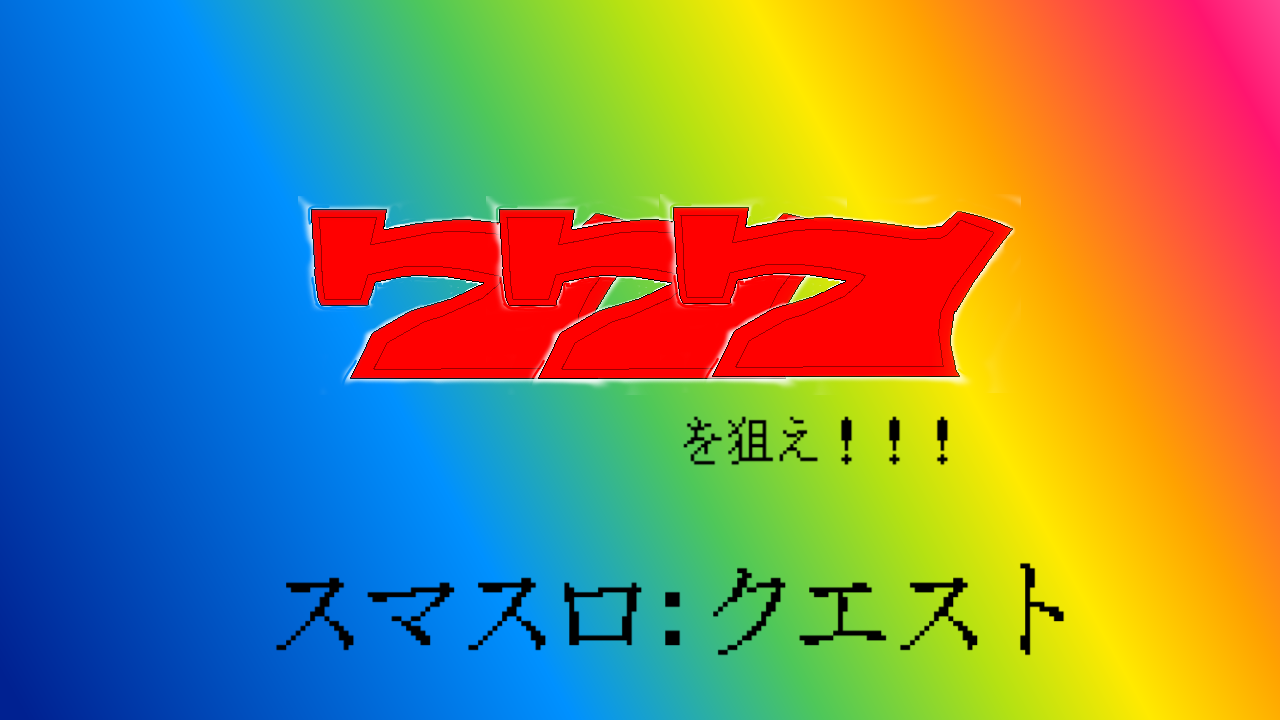
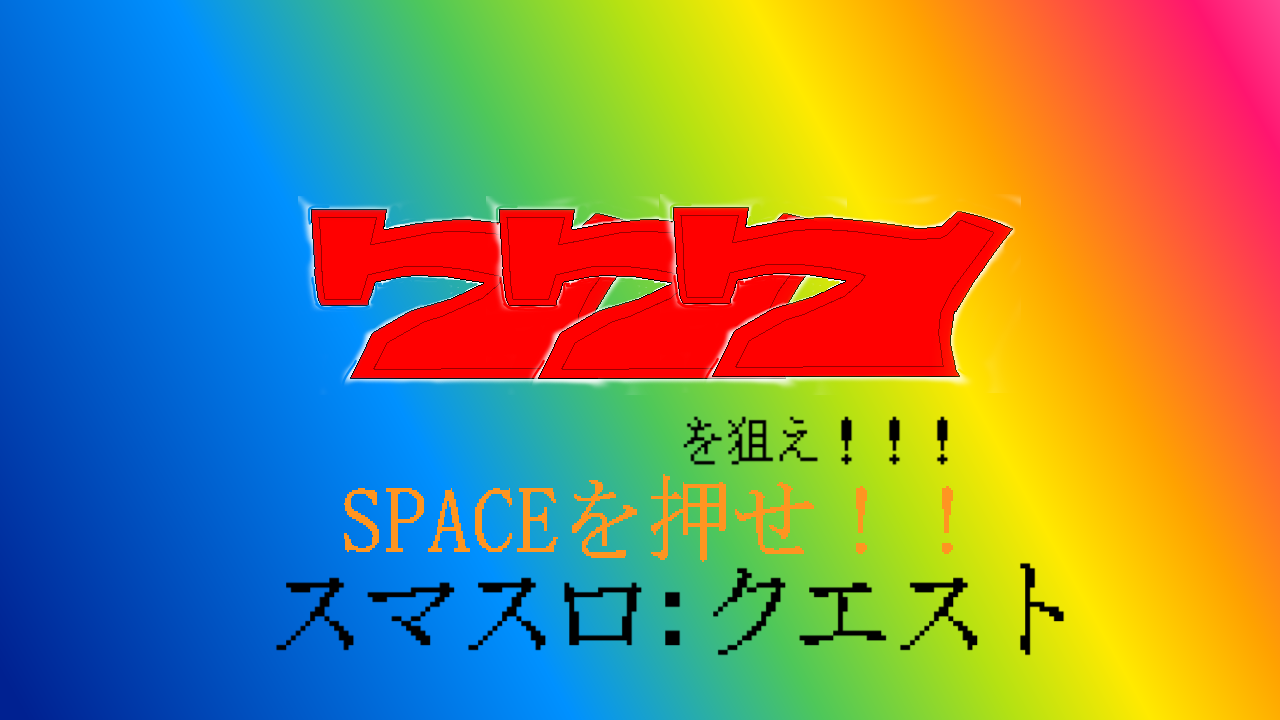
ok

Changed region(s): [[0.25, 0.6722, 0.625, 0.7944], [0.7188, 0.6722, 0.75, 0.7639], [0.6562, 0.6722, 0.6875, 0.7639]]

diff --git a/DirectXGame/scene/GameScene.cpp b/DirectXGame/scene/GameScene.cpp
@@ -79,7 +79,7 @@ void GameScene::Initialize() {
 	// レバーの生成
 	lever_ = new Lever();
 	// レバーの初期化
-	lever_->Initialize(modelLever_, &viewProjection_);
+	lever_->Initialize(modelLever_, &viewProjection_,this);
 
 	// モデル生成
 	modelReel_ = Model::CreateFromOBJ("Reel", true);
@@ -409,17 +409,15 @@ void GameScene::Update() {
 					}
 
 					// 敵を倒す抽選 (スイカ)
-					if (isEnemyActive==true && rand() % 100 < 50 && mode == 1) {  // 50%の確率で敵を倒せる
+					if (isEnemyActive==true && rand() % 100 < 50 && mode_ == 1) {  // 50%の確率で敵を倒せる
 						isEnemyActive = false;
 						enemies[selected_enemy_index]->SetIsActive(false);
-						
+						mode_ = 0;
+						Medal += 50;
 					}	
-					if (mode ==0)
-					{
-						mode = 1;
-					}
-					else if(mode ==1){
-						mode = 0;
+					
+					else if(mode_ ==0){
+						mode_ = 1;
 					}
 
 
@@ -464,17 +462,15 @@ void GameScene::Update() {
 					}
 
 					// 敵を倒す抽選 (弱チェリー)
-					if (isEnemyActive && rand() % 100 < 30 && mode == 1) {  // 30%の確率で敵を倒せる
+					if (isEnemyActive && rand() % 100 < 30 && mode_ == 1) {  // 30%の確率で敵を倒せる
 						isEnemyActive = false;
 						enemies[selected_enemy_index]->SetIsActive(false);
+						mode_ = 0;
+						Medal += 50;
 					}
 
-					if (mode ==0)
-					{
-						mode = 1;
-					}
-					else if(mode ==1){
-						mode = 0;
+					else if(mode_ ==0){
+						mode_ = 1;
 					}
 				}
 
@@ -518,17 +514,15 @@ void GameScene::Update() {
 					}
 
 					// 敵を倒す抽選 (強チェリー)
-					if (isEnemyActive && rand() % 100 < 80 && mode == 1) {  // 80%の確率で敵を倒せる
+					if (isEnemyActive && rand() % 100 < 80 && mode_ == 1) {  // 80%の確率で敵を倒せる
 						isEnemyActive = false;
 						enemies[selected_enemy_index]->SetIsActive(false);
+						mode_ = 0;
+						Medal += 50;
 					}
 
-					if (mode ==0)
-					{
-						mode = 1;
-					}
-					else if(mode ==1){
-						mode = 0;
+					else if(mode_ ==0){
+						mode_ = 1;
 					}
 				}
 			}

diff --git a/DirectXGame/ソースファイル/Lever.cpp b/DirectXGame/ソースファイル/Lever.cpp
@@ -2,16 +2,17 @@
 #include "ViewProjection.h"
 #include "WorldTransform.h"
 #include "ヘッダーファイル/Lever.h"
+#include "GameScene.h"
 
 
-void Lever::Initialize(Model *model, ViewProjection* viewProjection)
+void Lever::Initialize(Model *model, ViewProjection* viewProjection, GameScene* pGameScene)
 {
     audio_ = Audio::GetInstance();
 	input_ = Input::GetInstance();
 
     //BGM・SE読み込み
     LEVER = audio_->LoadWave("SE/Lever.wav");
-
+    mode_ = pGameScene;
 	worldTransform_.Initialize(); 
 	model_ = model;
 	viewProjection_ = viewProjection;
@@ -21,17 +22,32 @@ void Lever::Update(int &medal,int&gameCount,bool&isFreePlay)
 {
     // エンターキーが押されたらタイマー開始
     if (medal >= 3 && input_->TriggerKey(DIK_RETURN) &&
-        isRotating1_ == false && isRotating2_ == false && isRotating3_ == false) {
+        isRotating1_ == false && isRotating2_ == false && isRotating3_ == false&&mode_->Getmode()==0) {
             voiceHandle_ = audio_->PlayWave(LEVER, false);
             downTimer_ = DownTime;
-            //storenum = rng.GetRandamNumber(97, 97);
-            storenum = rng.GetRandamNumber(14, 150);
+            storenum = rng.GetRandamNumber(1, 400);
+           
 
             gameCount += 1;
 
             if (!isFreePlay) {
                 medal -= 3;
             }
+    }
+
+    // エンターキーが押されたらタイマー開始
+    if (medal >= 3 && input_->TriggerKey(DIK_RETURN) &&
+        isRotating1_ == false && isRotating2_ == false && isRotating3_ == false&&mode_->Getmode()==1) {
+        voiceHandle_ = audio_->PlayWave(LEVER, false);
+        downTimer_ = DownTime;
+        storenum = rng.GetRandamNumber(1, 200);
+
+
+        gameCount += 1;
+
+        if (!isFreePlay) {
+            medal -= 3;
+        }
     }
 
     //　リトライの時にメダルが2枚以下でも回るようにする処理

diff --git a/DirectXGame/ヘッダーファイル/Lever.h b/DirectXGame/ヘッダーファイル/Lever.h
@@ -3,10 +3,12 @@
 #include "Audio.h" 
 #include <rand.h>
 
+class GameScene;
+
 class Lever
 {
 public:
-    void Initialize(Model* model, ViewProjection* viewProjection);
+    void Initialize(Model* model, ViewProjection* viewProjection,GameScene* pGameScene);
 
     void Update(int &medal, int&gameCont, bool&isFreePlay);
 
@@ -39,6 +41,8 @@ private:
     ViewProjection* viewProjection_ = nullptr;
     // インプット
     Input* input_ = nullptr;
+
+    GameScene* mode_ = nullptr;
 
     const float DownOffsetY = -0.2f; // 下がる距離
     const int DownTime = 10;         // 下がっている時間

diff --git a/DirectXGame/scene/GameScene.h b/DirectXGame/scene/GameScene.h
@@ -69,6 +69,8 @@ public: // メンバ関数
 
 	void SpawnCoins(int count);
 
+	int Getmode() { return mode_; }
+
 private: // メンバ変数
 	DirectXCommon* dxCommon_ = nullptr;
 	Input* input_ = nullptr;
@@ -236,5 +238,5 @@ private: // メンバ変数
 
 	int coinsDeletedCount_ = 0; // 消えたコインの数をカウント
 
-	int mode = 0;
+	int mode_ = 0;
 };

diff --git a/DirectXGame/ソースファイル/TitleScene.cpp b/DirectXGame/ソースファイル/TitleScene.cpp
@@ -6,7 +6,7 @@ TitleScene::~TitleScene() {
 	delete sprite_;
 
 	// 音源停止
-	audio_->StopWave(voiceHandle1_);
+	//audio_->StopWave(voiceHandle1_);
 }
 
 void TitleScene::Initialize() {
